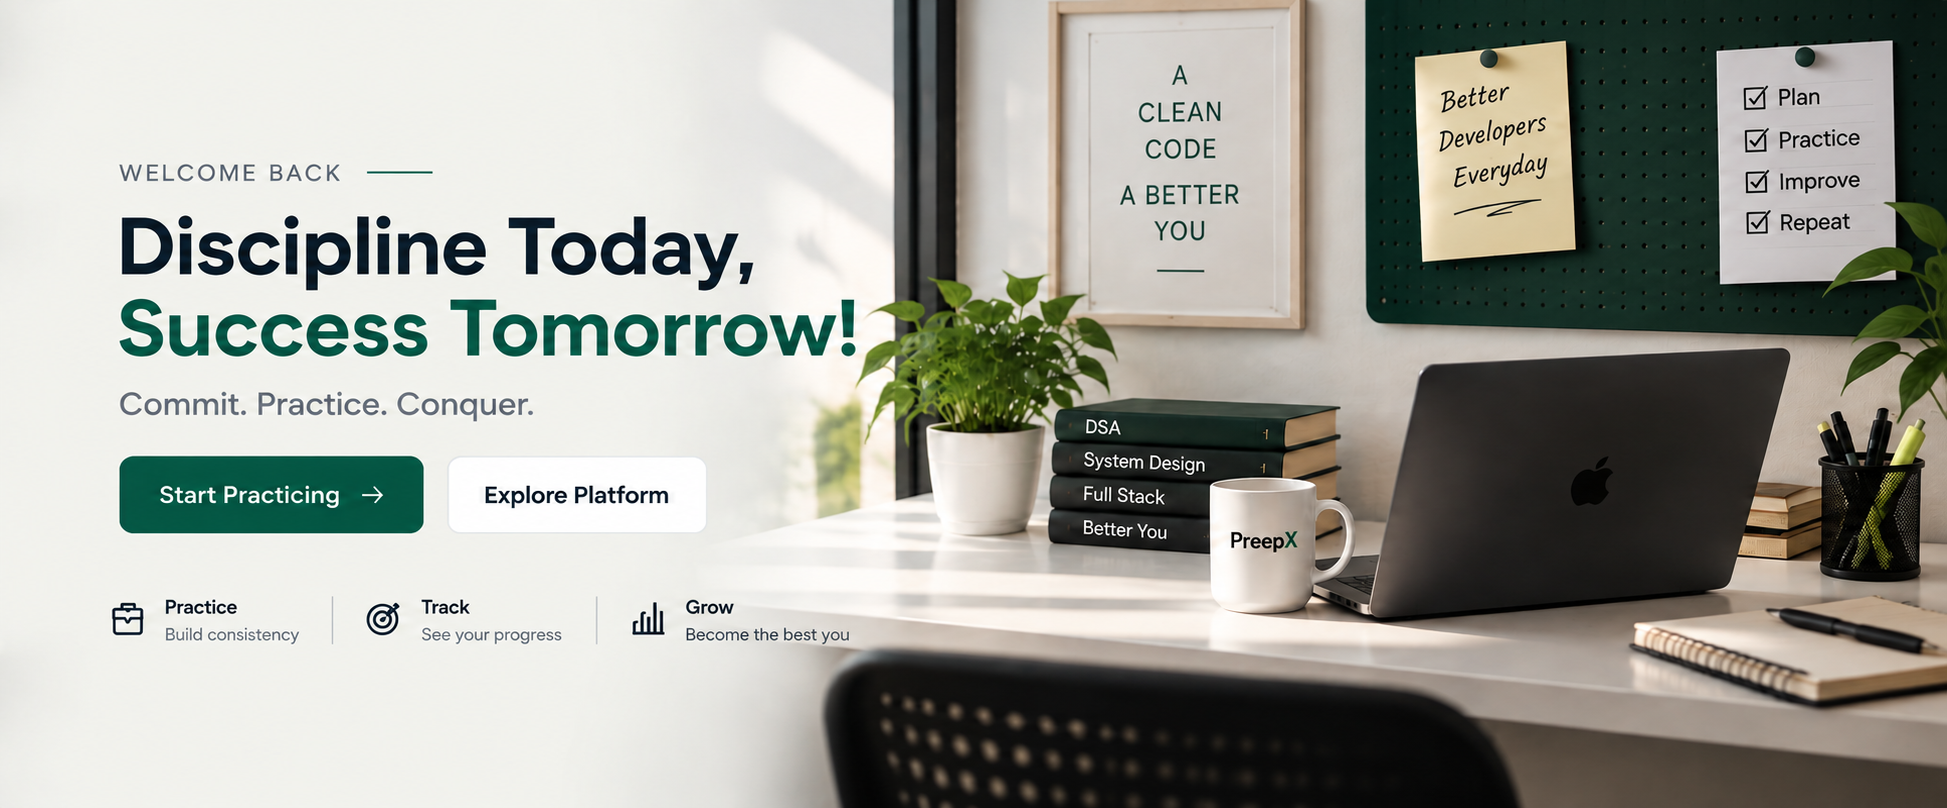
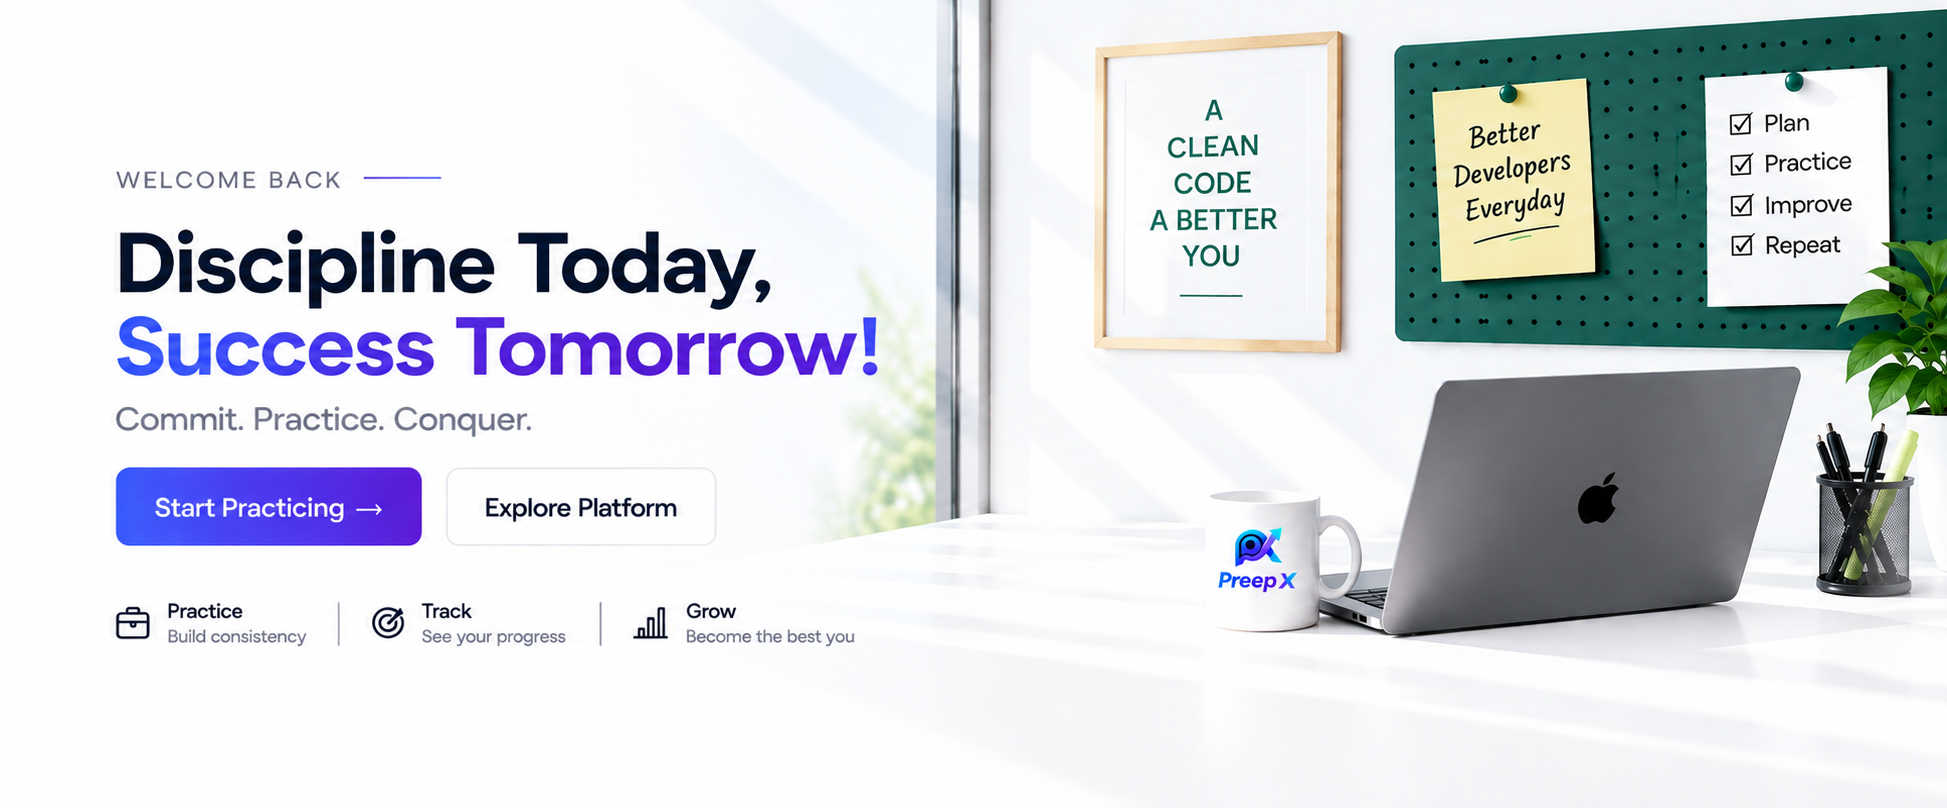
done

diff --git a/frontend/src/styles/dashboard/ud-banners.css b/frontend/src/styles/dashboard/ud-banners.css
@@ -221,7 +221,7 @@
   border-radius: 20px;
   overflow: hidden;
   background: transparent;
-  height: 215px;
+  height: 230px;
 }
 
 /* LEFT side — Banner image */
@@ -237,10 +237,12 @@
 .promo-banner-svg {
   width: 100%;
   height: 100%;
-  object-fit: fill;
+  object-fit: cover;
   display: block;
   pointer-events: none;
   user-select: none;
+  transform: scale(1.08) translateX(-1.5%);
+  transform-origin: center center;
 }
 
 /* RIGHT side — Feature list */
@@ -252,7 +254,7 @@
   gap: 12px;
   padding: 10px 20px 10px 20px;
   background: transparent;
-  height: 215px;
+  height: 230px;
   overflow: hidden;
 }
 

diff --git a/frontend/src/features/dashboard/components/PromoBannerSection.jsx b/frontend/src/features/dashboard/components/PromoBannerSection.jsx
@@ -1,5 +1,5 @@
 import React from "react";
-import { CalendarCheck2, TrendingUp, Gift } from "lucide-react";
+import { CalendarCheck2, TrendingUp, Gift, Trophy, Lightbulb } from "lucide-react";
 
 const FEATURES = [
   {
@@ -16,6 +16,16 @@ const FEATURES = [
     icon: <Gift size={16} />,
     title: "Earn Rewards",
     desc: "Unlock badges, rewards & more",
+  },
+  {
+    icon: <Trophy size={16} />,
+    title: "Achieve Goals",
+    desc: "Complete missions & climb ranks",
+  },
+  {
+    icon: <Lightbulb size={16} />,
+    title: "Learn & Grow",
+    desc: "Master new skills everyday",
   },
 ];
 

diff --git a/frontend/src/styles/dashboard/ud-layout.css b/frontend/src/styles/dashboard/ud-layout.css
@@ -5,7 +5,7 @@
 .ud-page {
   padding: 28px 32px 48px;
   width: 100%;
-  background-color: #F1F1EC;
+  background-color: #FEFEFE;
   min-height: 100vh;
   animation: udFadeIn 0.5s ease-out;
 }

diff --git a/frontend/src/styles/AppLayout.css b/frontend/src/styles/AppLayout.css
@@ -16,7 +16,7 @@
 
 .sidebar {
   width: 250px;
-  background: var(--surface);
+  background: #FEFEFE;
   border-right: 1px solid var(--border);
   display: flex;
   flex-direction: column;

diff --git a/frontend/src/styles/index.css b/frontend/src/styles/index.css
@@ -9,7 +9,7 @@
   --success: #10b981;
   --warning: #f59e0b;
   --danger: #ef4444;
-  --bg: #f8fafc;
+  --bg: #FEFEFE;
   --surface: #ffffff;
   --text: #0f172a;
   --text-muted: #64748b;
